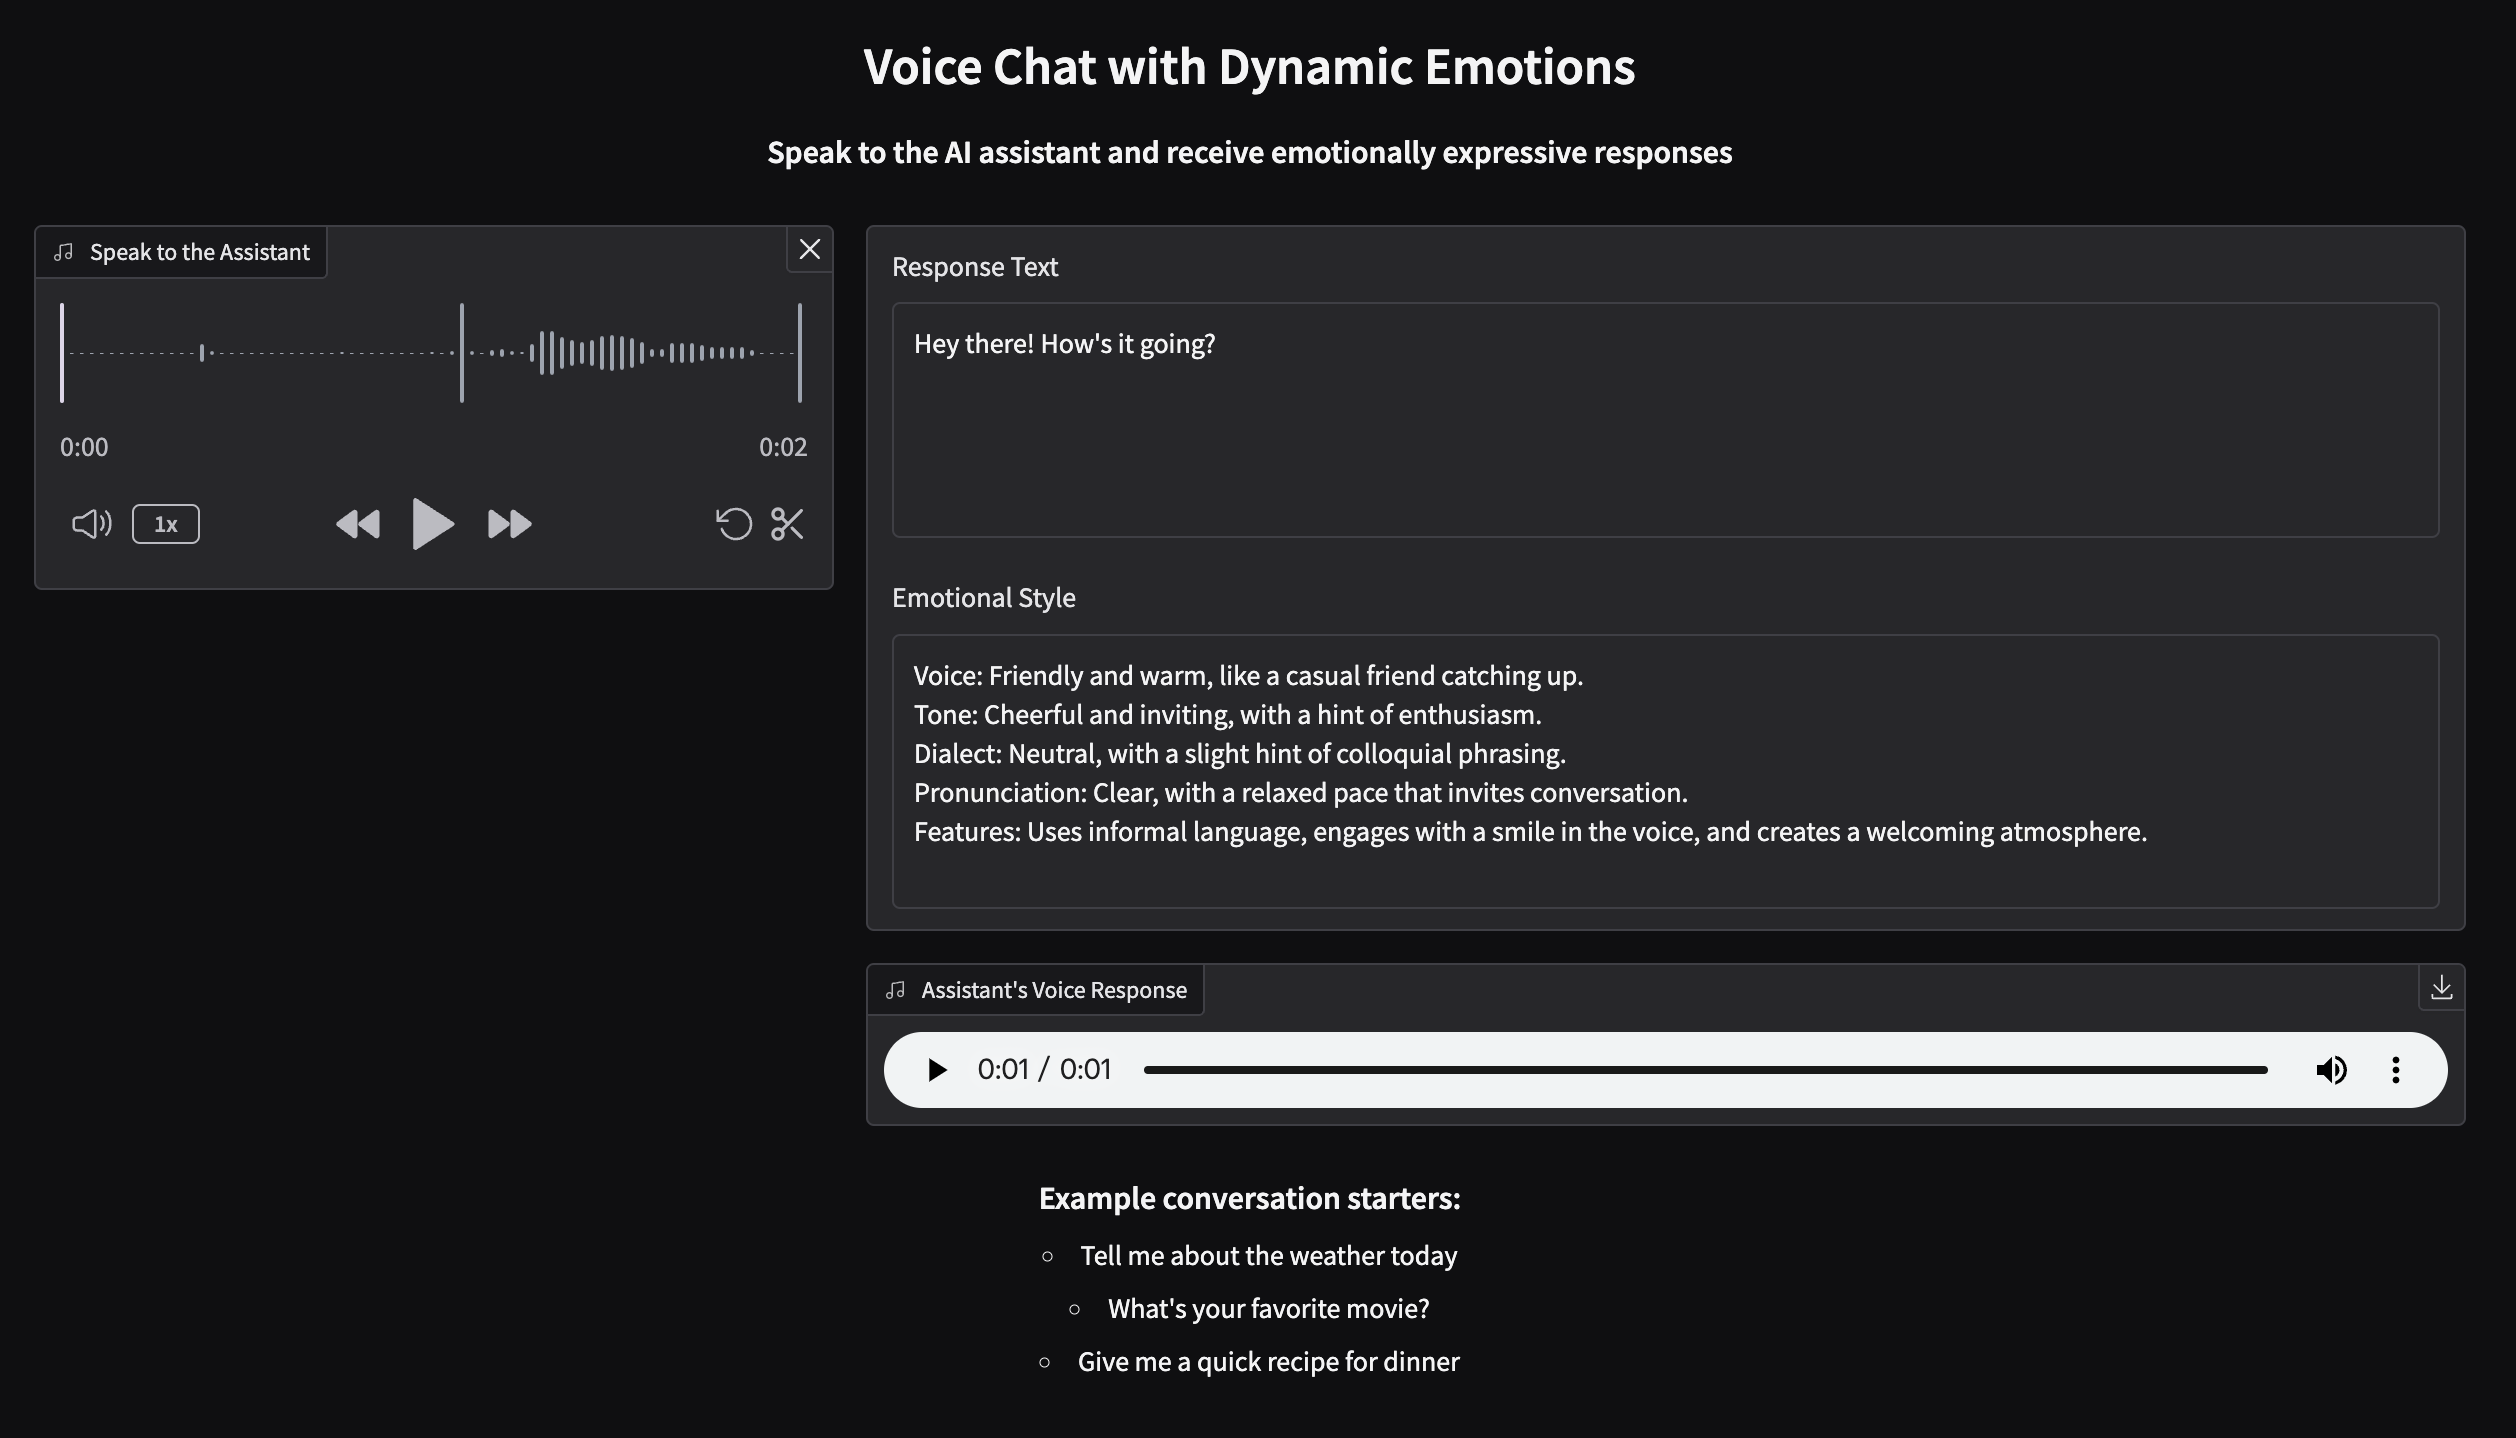
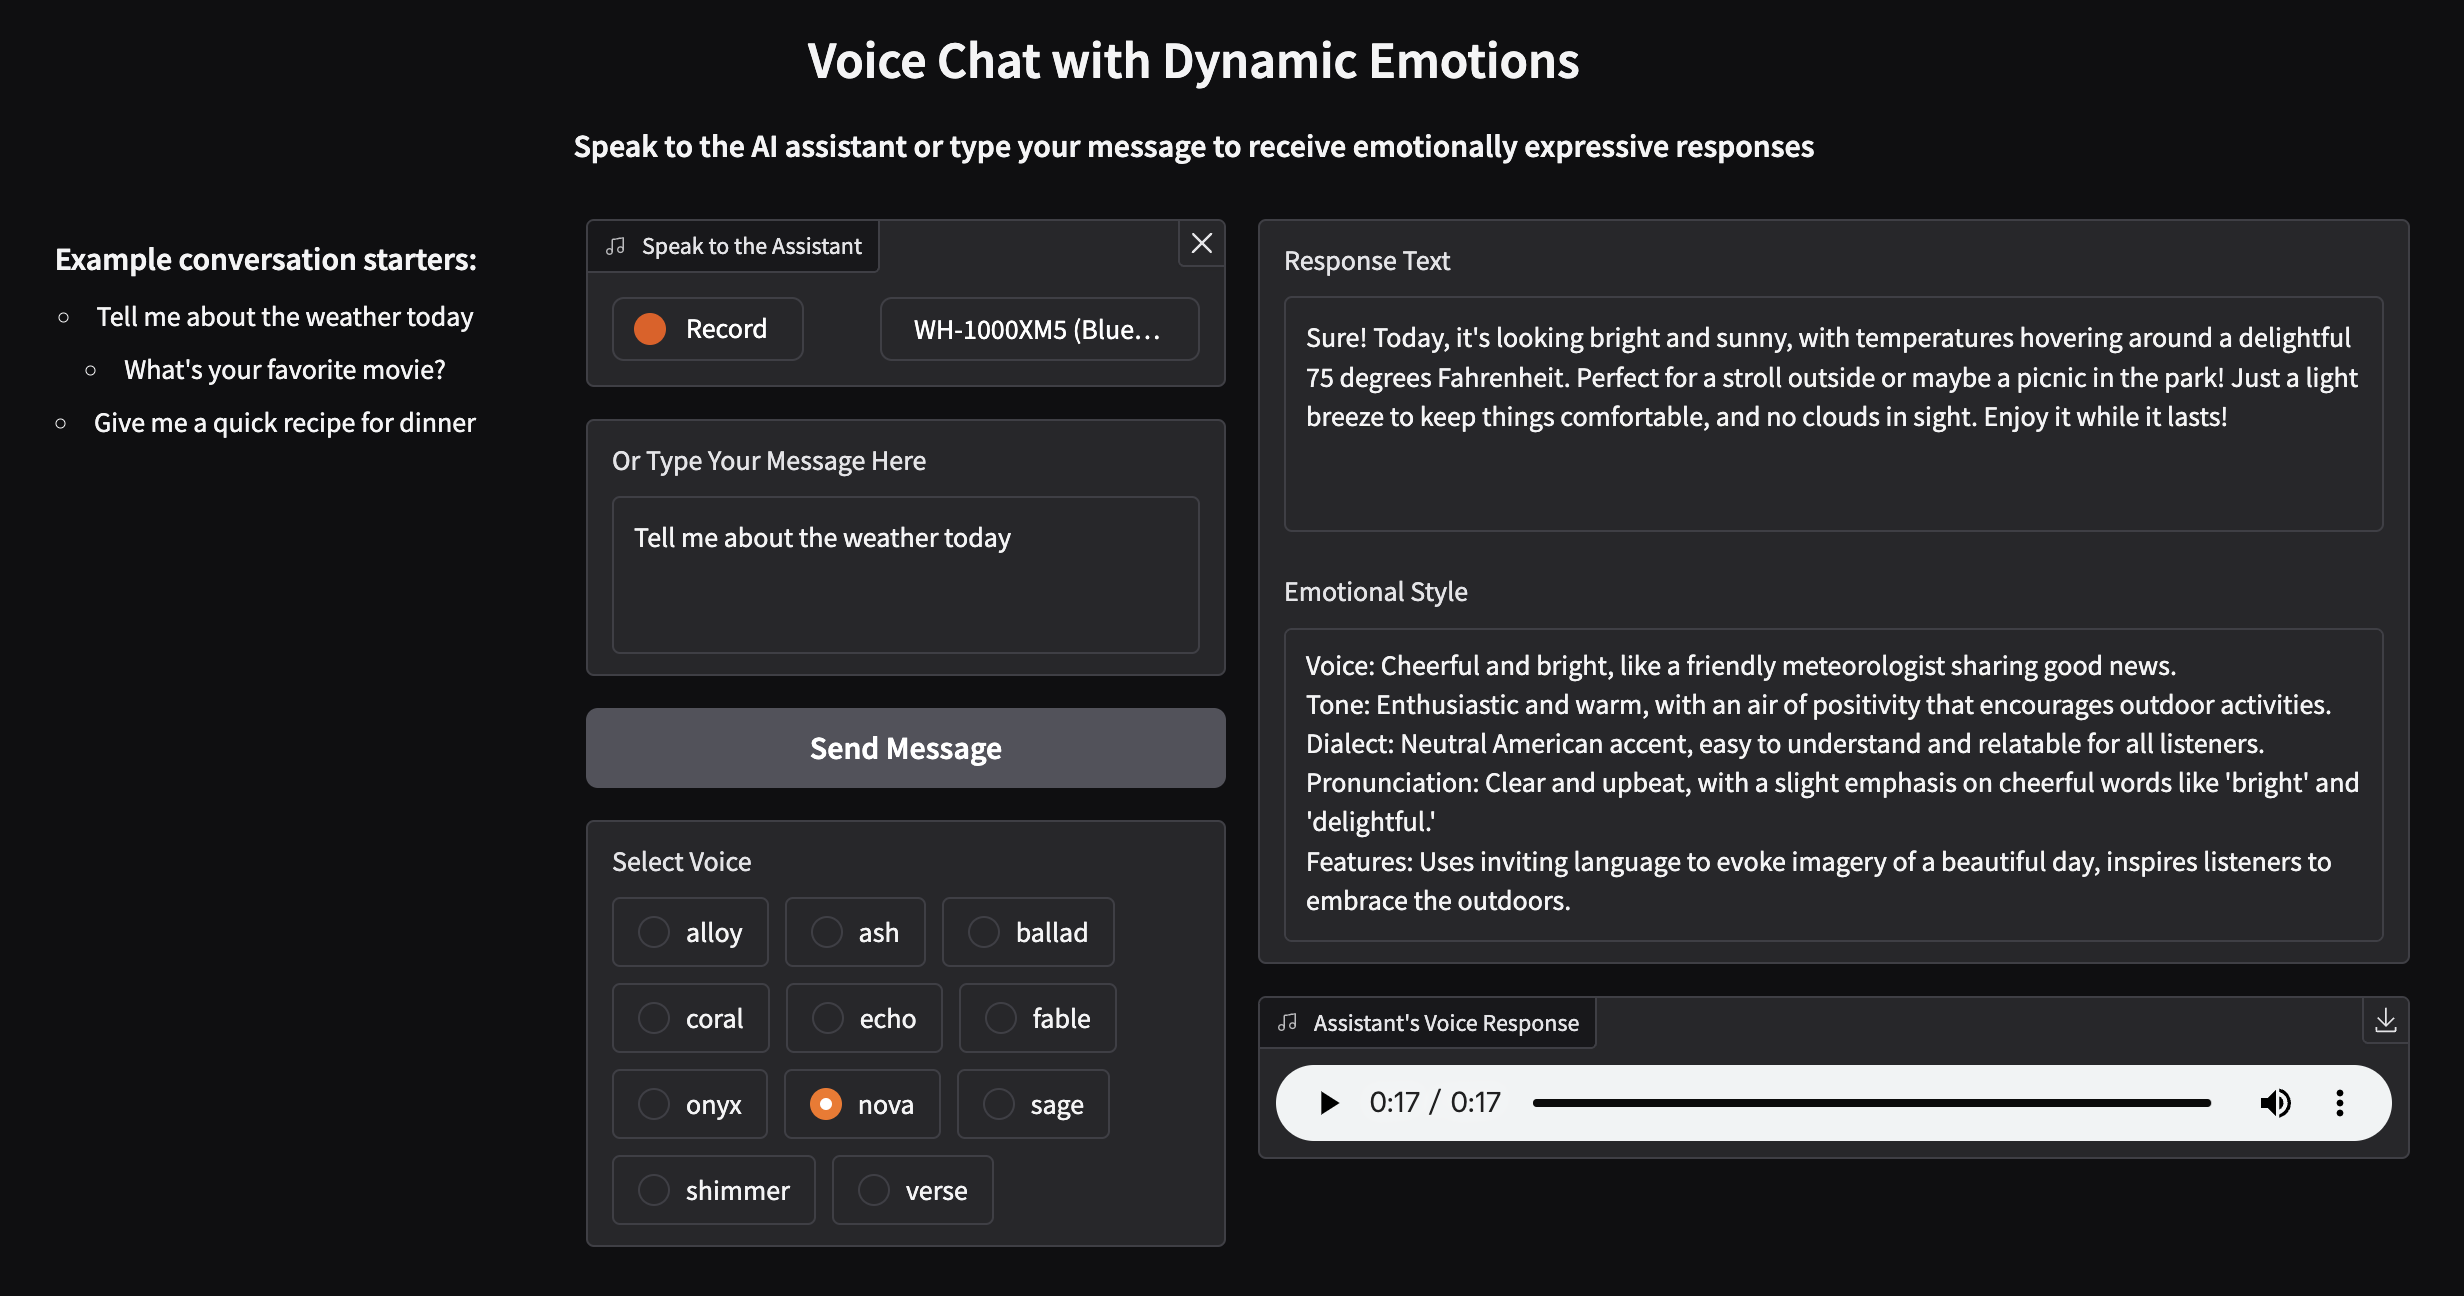
add voice selection

diff --git a/ui.py b/ui.py
@@ -128,12 +128,12 @@ async def process_audio(audio):
     return answer, emotion, input_text
 
 
-def generate_audio_streaming(answer, emotion):
+def generate_audio_streaming(answer, emotion, voice="alloy"):
     """Bridge the async generator to Gradio's sync world"""
     audio_manager = AudioStreamManager()
     loop = asyncio.new_event_loop()
     asyncio.set_event_loop(loop)
-    async_gen = audio_manager.stream_audio(text=answer, instructions=emotion)
+    async_gen = audio_manager.stream_audio(text=answer, instructions=emotion, voice=voice)
 
     try:
         while True:
@@ -159,6 +159,8 @@ def process_audio_sync(audio):
 # ---------------------------------------------------------------------------
 # Gradio Interface
 # ---------------------------------------------------------------------------
+voice_options = ["alloy", "ash", "ballad", "coral", "echo", "fable", "onyx", "nova", "sage", "shimmer", "verse"]
+
 with gr.Blocks() as block:
     gr.HTML(
         """
@@ -184,6 +186,11 @@ with gr.Blocks() as block:
             )
             input_text = gr.Textbox(label="Or Type Your Message Here", lines=3)
             submit_btn = gr.Button("Send Message")
+            voice = gr.Radio(
+                choices=voice_options,
+                label="Select Voice",
+                value="nova"  # Default selection
+            )
         with gr.Column(scale=2):
             answer = gr.Textbox(label="Response Text", lines=5)
             emotion = gr.Textbox(label="Emotional Style", lines=6)
@@ -194,7 +201,7 @@ with gr.Blocks() as block:
     # Set up the event chain for audio input
     audio_in.stop_recording(
         process_audio_sync, [audio_in], [answer, emotion, input_text]
-    ).then(generate_audio_streaming, [answer, emotion], [answer, audio_out])
+    ).then(generate_audio_streaming, [answer, emotion, voice], [answer, audio_out])
 
     # Set up the event chain for text input
     def process_text_input(text):
@@ -206,12 +213,12 @@ with gr.Blocks() as block:
     # Connect the text input and button to the processing function
     submit_btn.click(
         process_text_input, input_text, [answer, emotion, input_text]
-    ).then(generate_audio_streaming, [answer, emotion], [answer, audio_out])
+    ).then(generate_audio_streaming, [answer, emotion, voice], [answer, audio_out])
 
     # Also allow pressing Enter to submit
     input_text.submit(
         process_text_input, input_text, [answer, emotion, input_text]
-    ).then(generate_audio_streaming, [answer, emotion], [answer, audio_out])
+    ).then(generate_audio_streaming, [answer, emotion, voice], [answer, audio_out])
 
 # Launch the Gradio interface
 block.launch()
